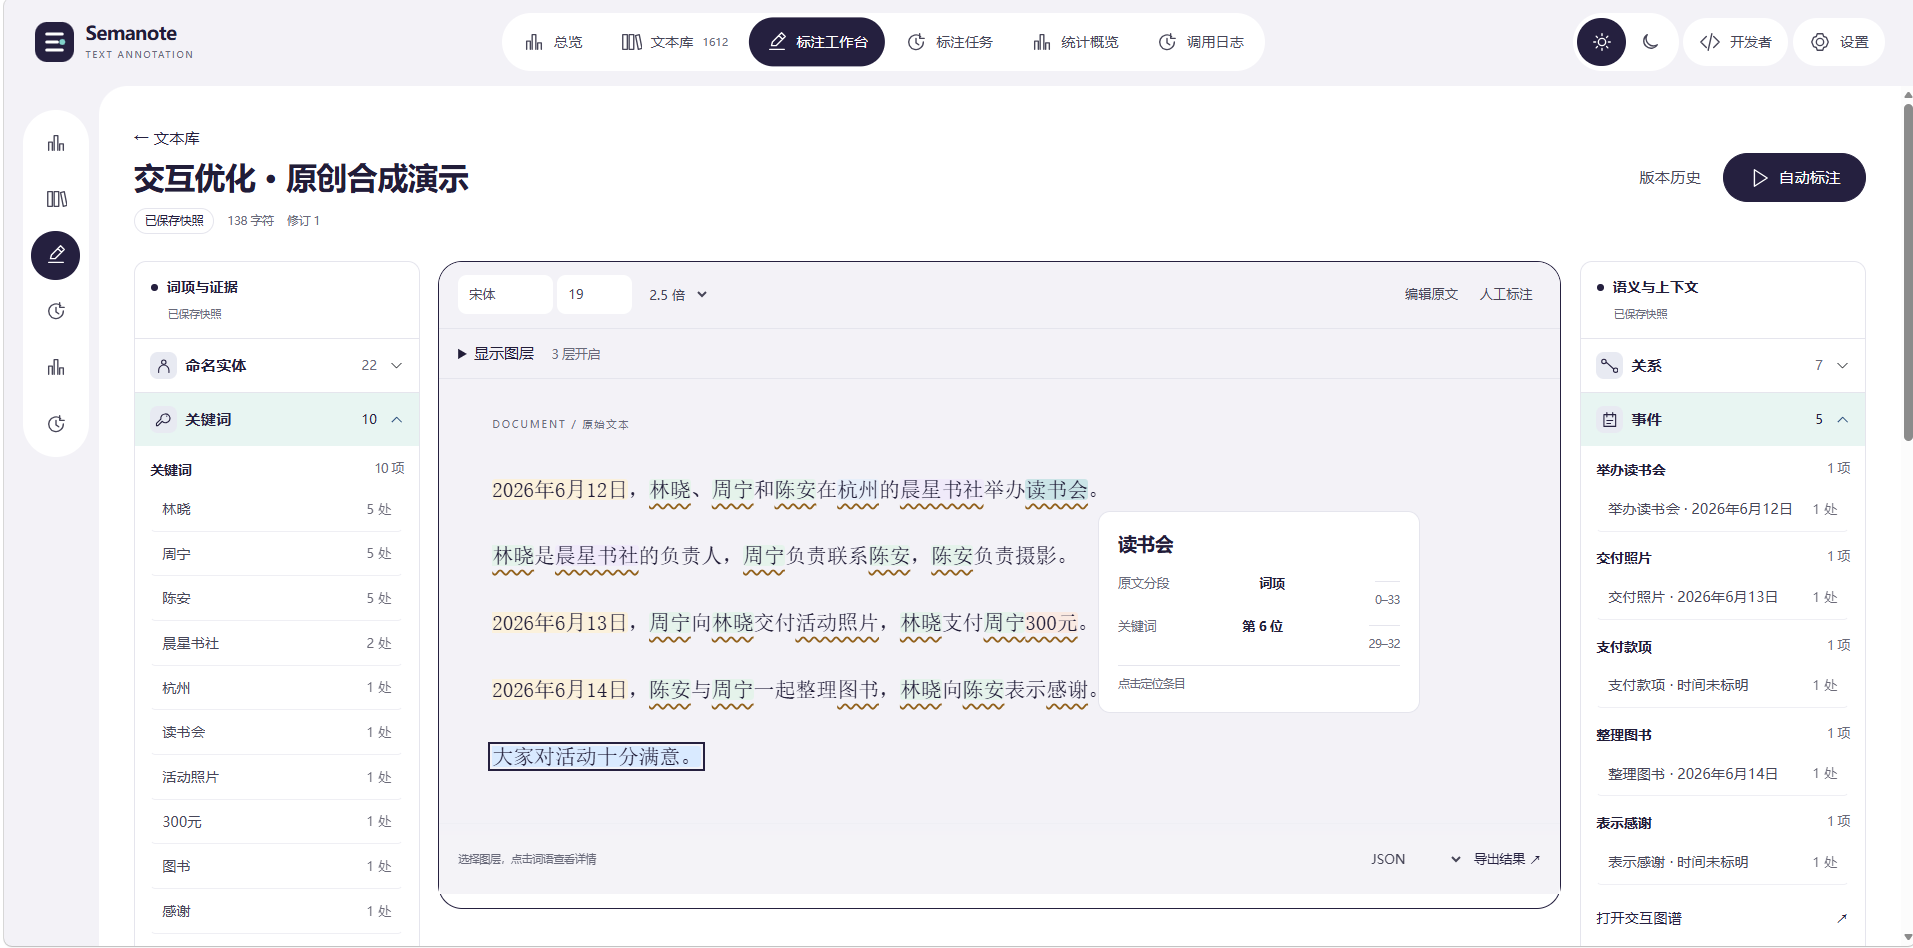
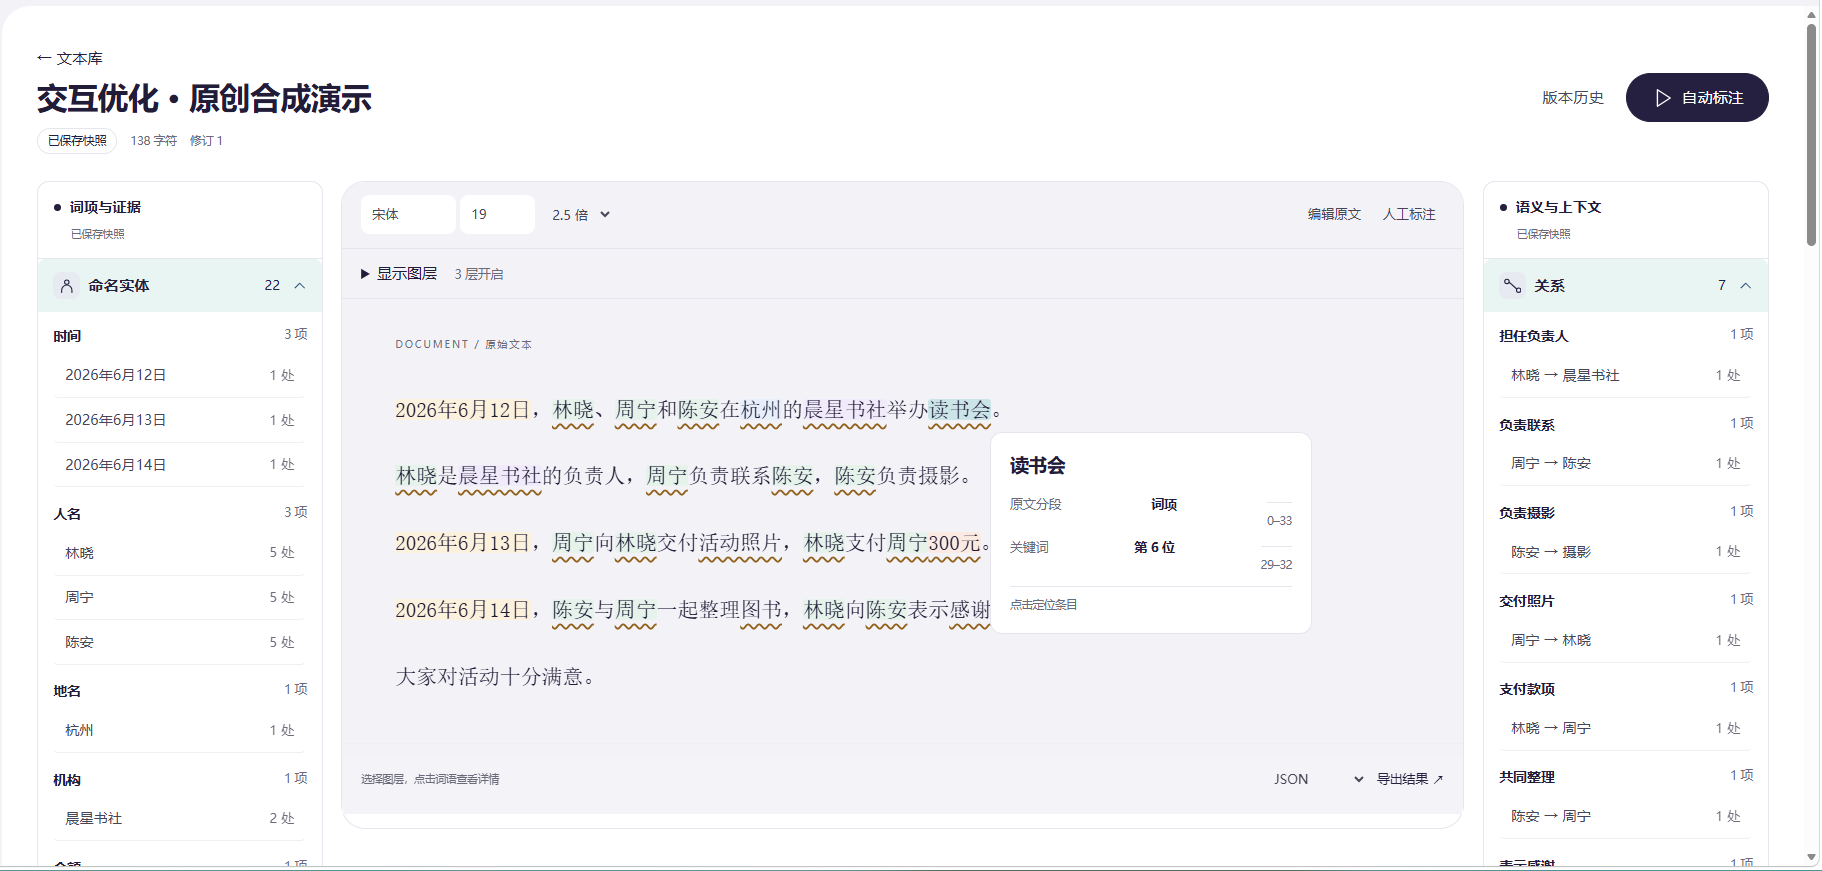
fix：完善 README 并添加 MIT 许可证

diff --git a/docs/AGENTS.md b/docs/AGENTS.md
@@ -14,3 +14,4 @@
 - 页首居中排版，依次显示项目标识、项目名、一句用途、版本／平台／技术栈／许可证徽章和段落导航。徽章与链接以项目实际情况为准。
 - 页首以下按首页截图、简介、标注能力、开始使用、架构与设计、数据和隐私、常见问题、致谢、许可证排布。标注能力用简表配合成演示截图，部署和供应商配置分步写，架构使用 Archify 系统图截图并链接原图，常见问题用三至四项问答表。
 - 每段只保留读者需要的信息，验证细节放交付文档。配图与当前版本相符，按根规范逐图核验并记录摘要。
+- 标注表格使用通栏布局，分别列出图层、结果和查看方式。架构说明按模块分点。许可证徽章链接根目录的 MIT 许可证，第三方许可另列。

diff --git a/docs/release-0.1.2-preparation.md b/docs/release-0.1.2-preparation.md
@@ -4,7 +4,7 @@
 
 ## 本地检查
 
[2 lines of base64/hex data omitted]
 
 - JavaScript 智能体、前端数据处理和工具：58 项测试通过。
 - Java 后端：14 项测试通过；前端生产构建通过。
